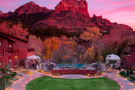
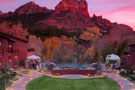
Сжатие графики, убирание лишних тегов <img>

diff --git a/index.html b/index.html
@@ -28,9 +28,7 @@
           </ul>
         </nav>
 
-        <img src="img/main-intro-welcome.png" alt="Welcome">
-        <img src="img/main-intro-sedona.png" alt="SEDONA">
-        <img src="img/main-intro-slogan.png" alt="Because the Grand Canyon sucks!">
+        <img src="img/main-intro.png" alt="Welcome Sedona">
         <img src="img/main-intro-decoration.png">
 
         <div class="main-intro text">
